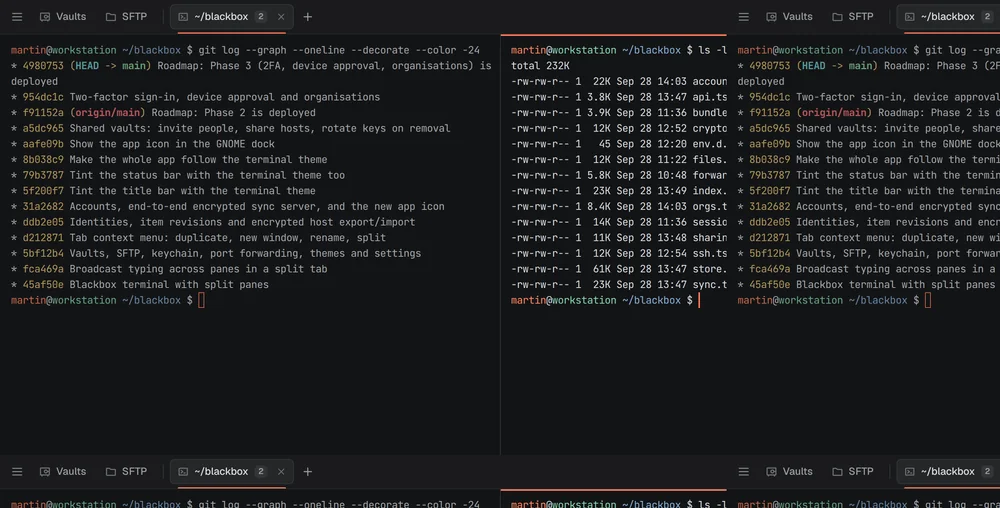
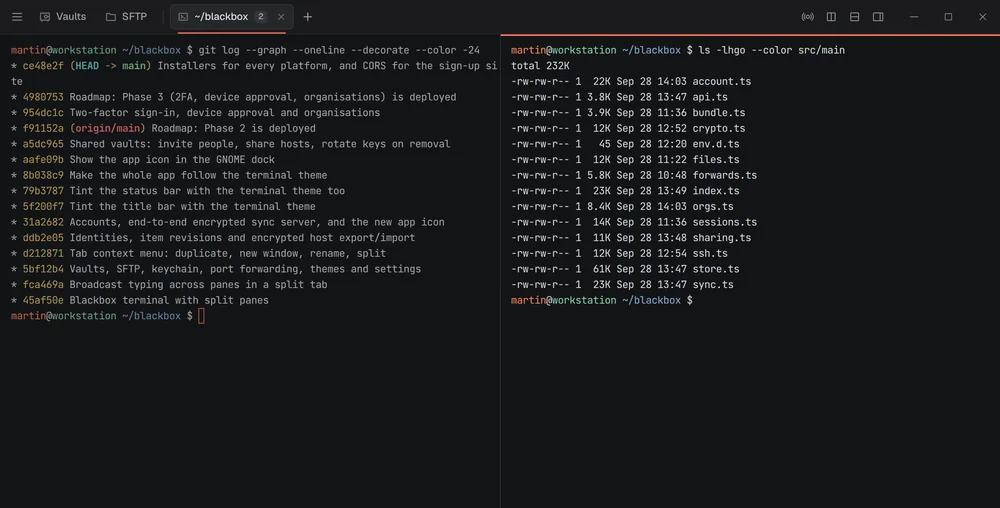
Hero: keep the screenshot inside the page, and even out the margins
The page was capped at 1240px while the hero screenshot bled off the right edge at 7/12 width, so
wide screens got a big left margin and an oversized image. The page is now 1560px with 20-64px
gutters, the screenshot sits in the grid at about half width, and the sessions shot no longer bleeds
left. Less empty space under the hero.

Also re-shoots the dark split-pane screenshot, which had come out tiled.

diff --git a/src/styles.css b/src/styles.css
@@ -32,8 +32,8 @@
   --mono: 'JetBrains Mono Variable', ui-monospace, monospace;
   --ease: cubic-bezier(0.16, 1, 0.3, 1);
 
-  --page: 1240px;
-  --gutter: clamp(16px, 4vw, 40px);
+  --page: 1560px;
+  --gutter: clamp(20px, 4vw, 64px);
 
   color-scheme: light;
 }
@@ -263,13 +263,13 @@ code,
 
 .hero {
   position: relative;
-  padding: clamp(40px, 7vw, 88px) 0 clamp(56px, 8vw, 96px);
+  padding: clamp(40px, 6vw, 80px) 0 clamp(16px, 3vw, 40px);
   overflow: hidden;
 }
 .hero-grid {
   display: grid;
-  grid-template-columns: minmax(0, 5fr) minmax(0, 7fr);
-  gap: clamp(32px, 5vw, 64px);
+  grid-template-columns: minmax(0, 1fr) minmax(0, 1.1fr);
+  gap: clamp(32px, 4.5vw, 80px);
   align-items: center;
 }
 .hero h1 {
@@ -289,16 +289,9 @@ code,
   gap: 12px;
   margin-top: 34px;
 }
-.hero-shot {
-  /* Bleeds past the right edge on wide screens, like a window left open on the desk. */
-  margin-right: calc(-1 * max(var(--gutter), (100vw - var(--page)) / 2 + var(--gutter)));
-}
 @media (max-width: 900px) {
   .hero-grid {
     grid-template-columns: 1fr;
-  }
-  .hero-shot {
-    margin-right: 0;
   }
 }
 
@@ -340,9 +333,6 @@ code,
   align-items: center;
   margin-top: 56px;
 }
-.sessions-shot {
-  margin-left: calc(-1 * max(0px, (100vw - var(--page)) / 2));
-}
 .facts {
   display: grid;
   gap: 28px;
@@ -370,9 +360,6 @@ code,
 @media (max-width: 900px) {
   .sessions-grid {
     grid-template-columns: 1fr;
-  }
-  .sessions-shot {
-    margin-left: 0;
   }
 }
 

diff --git a/index.html b/index.html
@@ -15,8 +15,8 @@
     <meta property="og:description" content="A fast terminal for local shells and SSH, with SFTP, a keychain, port forwarding and end-to-end encrypted sync." />
     <meta property="og:image" content="/og.png" />
     <meta name="twitter:card" content="summary_large_image" />
-    <link rel="preload" as="image" href="/screens/vaults-dark-1000.webp" media="(prefers-color-scheme: dark)" imagesrcset="/screens/vaults-dark-1000.webp 1000w, /screens/vaults-dark.webp 2000w" imagesizes="(max-width: 900px) 100vw, 60vw" />
-    <link rel="preload" as="image" href="/screens/vaults-light-1000.webp" media="(prefers-color-scheme: light)" imagesrcset="/screens/vaults-light-1000.webp 1000w, /screens/vaults-light.webp 2000w" imagesizes="(max-width: 900px) 100vw, 60vw" />
+    <link rel="preload" as="image" href="/screens/vaults-dark-1000.webp" media="(prefers-color-scheme: dark)" imagesrcset="/screens/vaults-dark-1000.webp 1000w, /screens/vaults-dark.webp 2000w" imagesizes="(max-width: 900px) 100vw, 50vw" />
+    <link rel="preload" as="image" href="/screens/vaults-light-1000.webp" media="(prefers-color-scheme: light)" imagesrcset="/screens/vaults-light-1000.webp 1000w, /screens/vaults-light.webp 2000w" imagesizes="(max-width: 900px) 100vw, 50vw" />
   </head>
   <body>
     <div id="root"></div>

diff --git a/src/landing.tsx b/src/landing.tsx
@@ -79,7 +79,7 @@ function Hero({ visitor, release }: { visitor: Visitor; release: ReleaseState })
         </div>
         <div className="hero-shot hero-enter" style={{ '--delay': '240ms' } as React.CSSProperties}>
           <div className="shot">
-            <Shot name="vaults" small eager width={2000} height={1250} sizes="(max-width: 900px) 100vw, 60vw" alt="Blackbox showing saved hosts grouped into Home, Production and Staging, with a search bar to connect." />
+            <Shot name="vaults" small eager width={2000} height={1250} sizes="(max-width: 900px) 100vw, 50vw" alt="Blackbox showing saved hosts grouped into Home, Production and Staging, with a search bar to connect." />
           </div>
         </div>
       </div>
